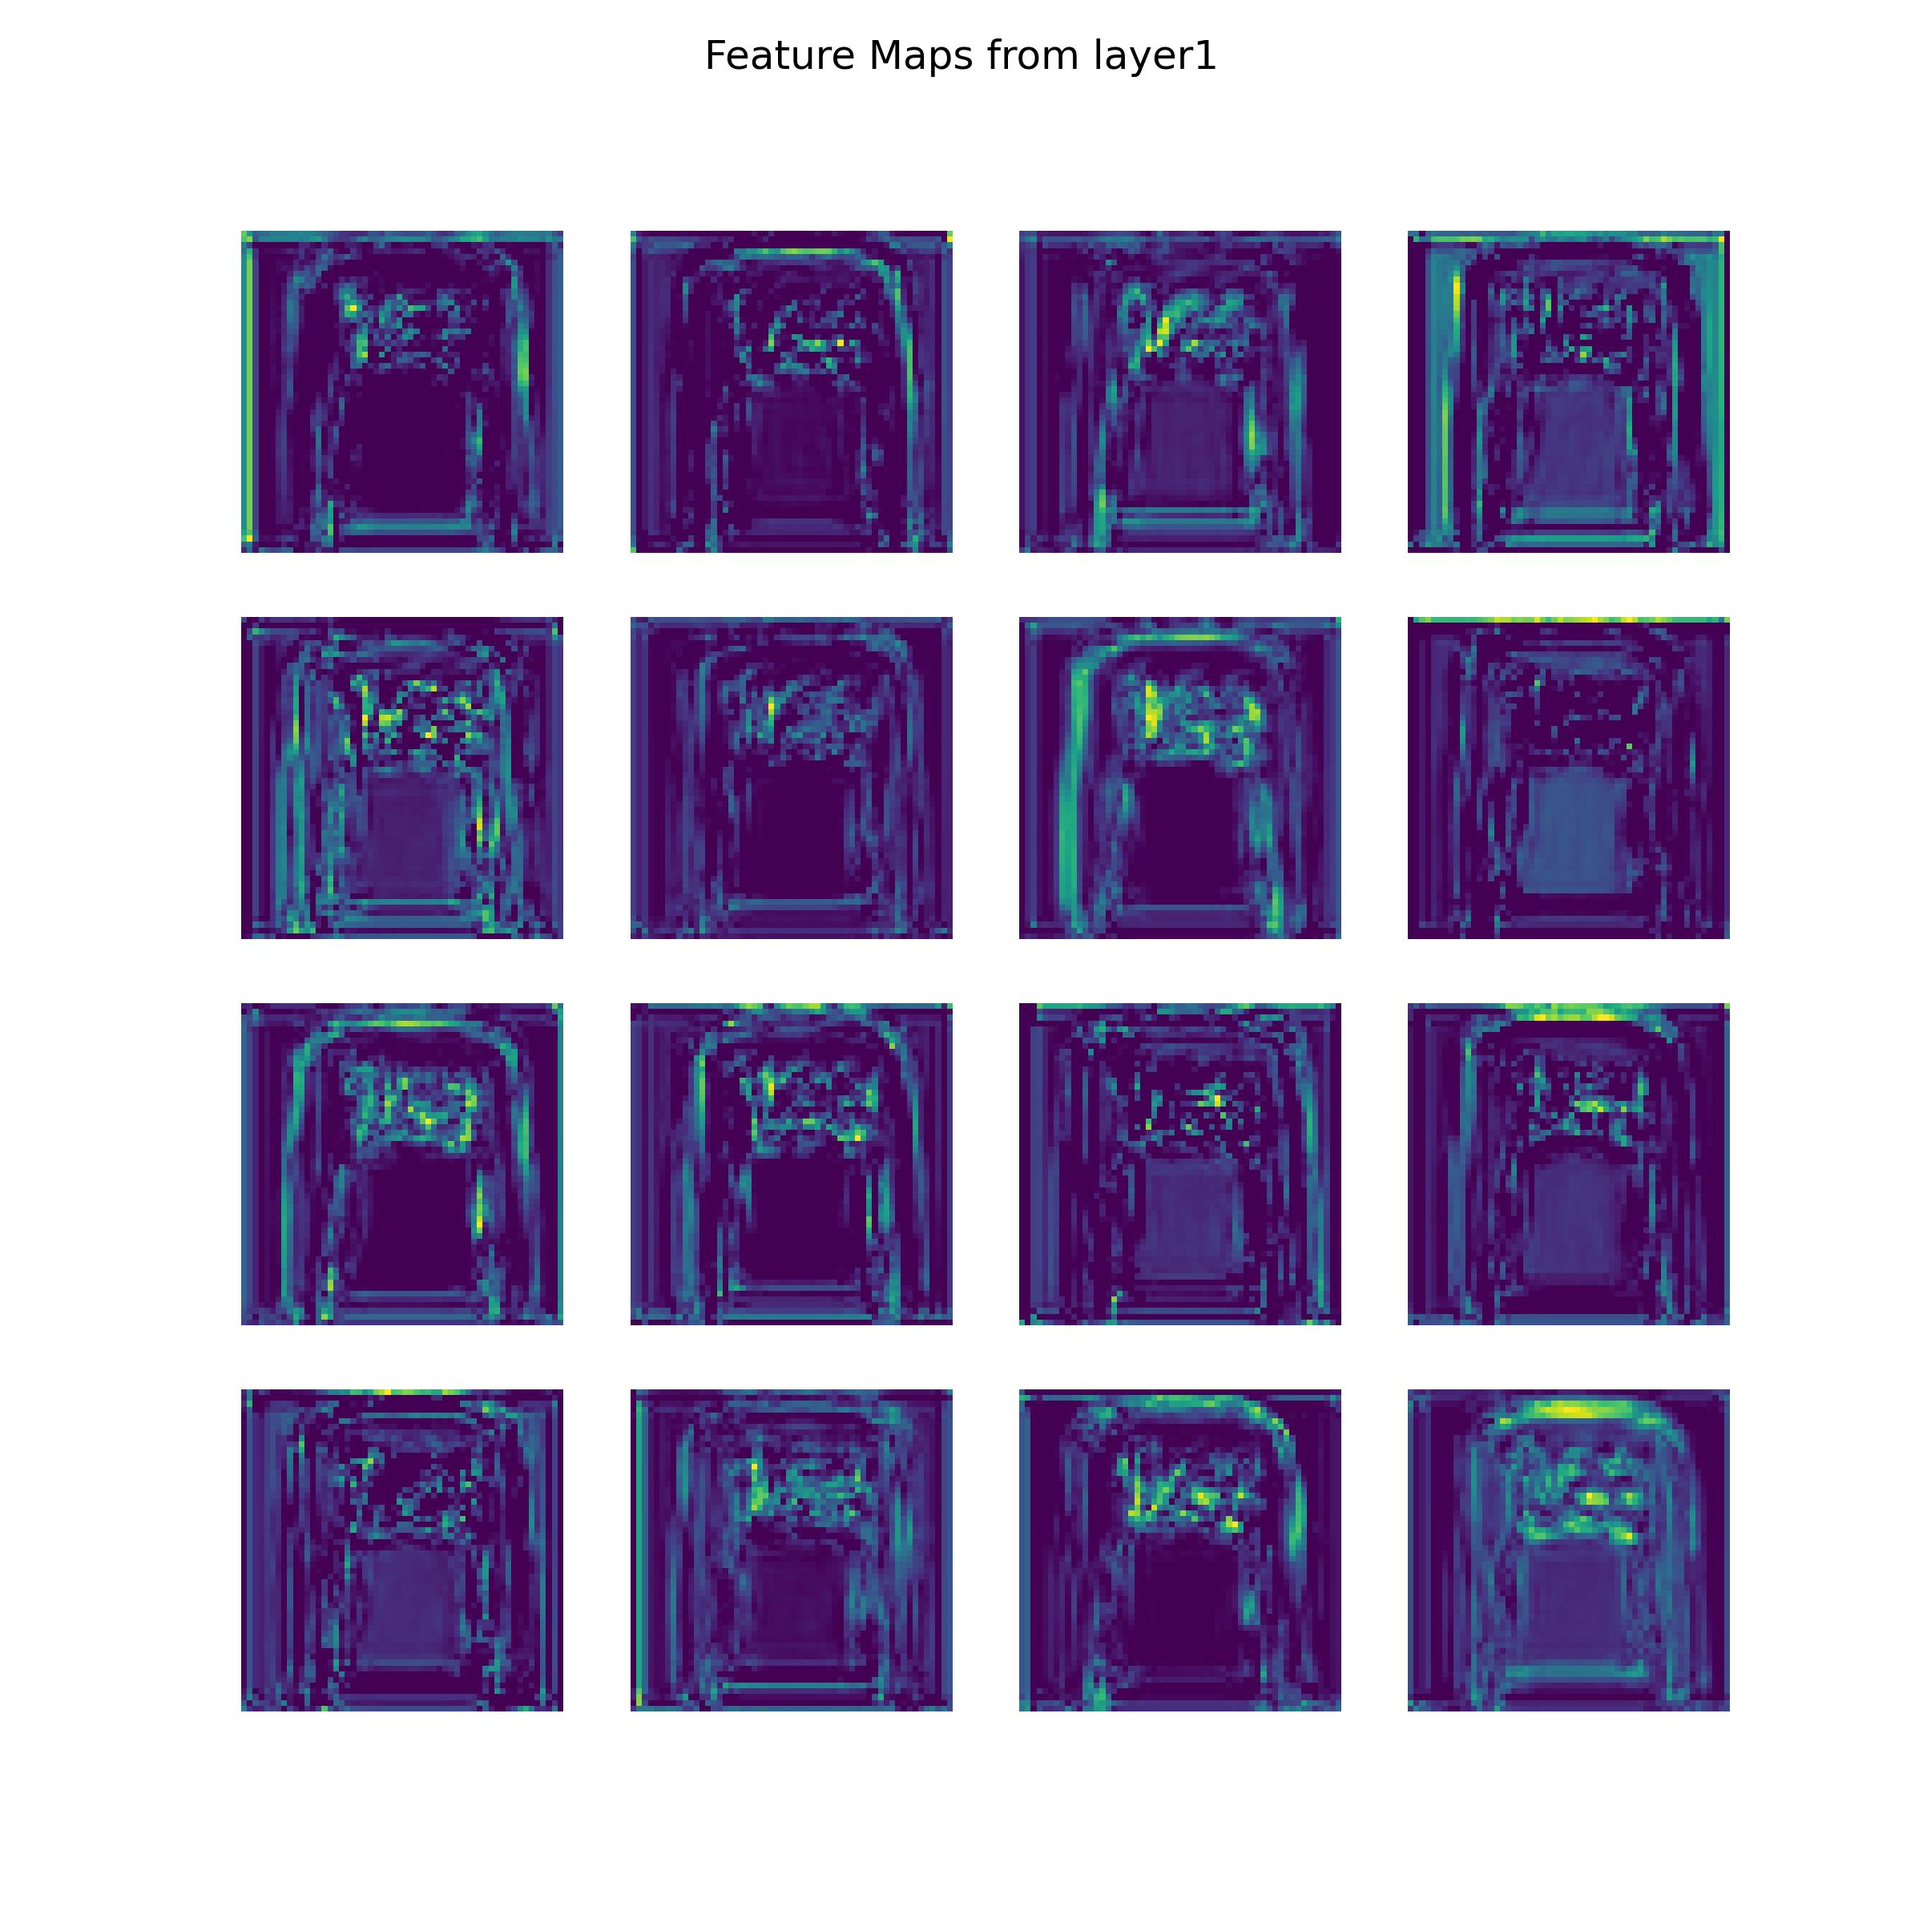
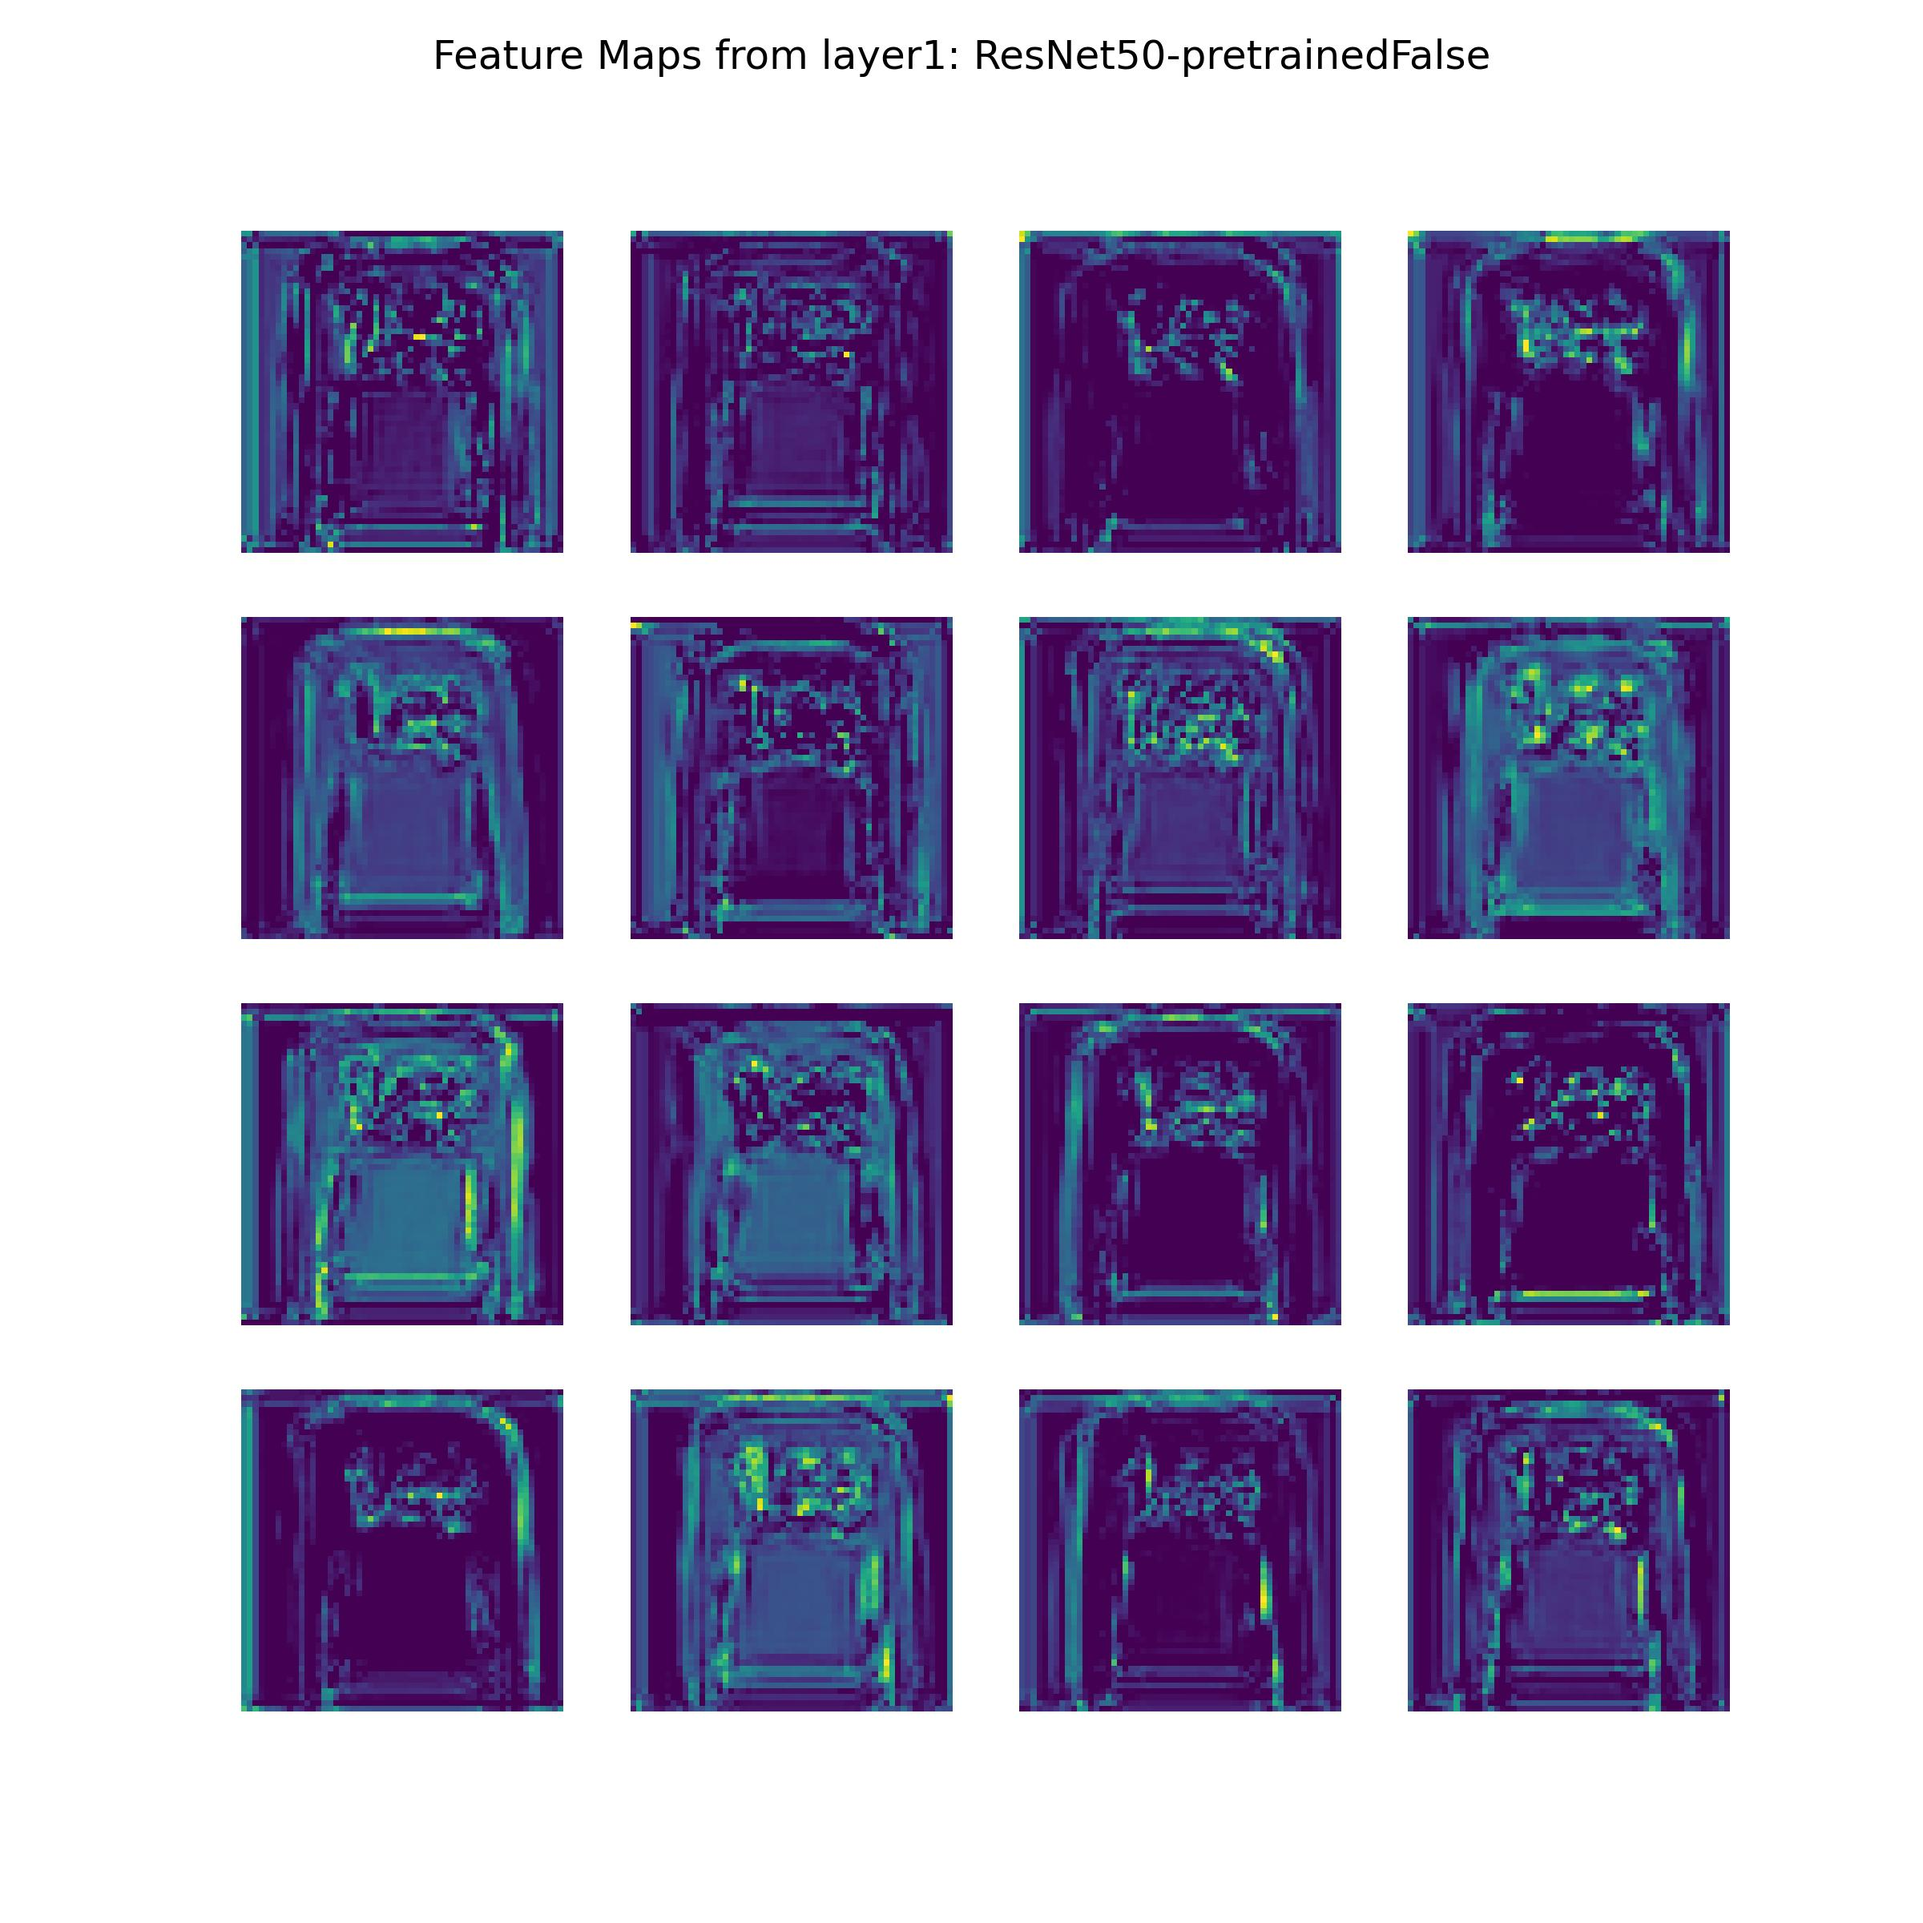
ran some experiments

diff --git a/src/pretrained_models.py b/src/pretrained_models.py
@@ -58,7 +58,7 @@ def train_model(model, train_loader, criterion, hyperparameters):
     
     utils.plot_loss_accuracy_curves(
         losses, accuracies, 
-        saveTag=f"{hyperparameters['model_name']}-pretrained-{hyperparameters['pretrained_model']})", 
+        saveTag=f"train_{hyperparameters['model_name']}_pretrained{hyperparameters['pretrained_model']}", 
         figSaveDir=f"../figs/pretrained_experiments/"
         )
 
@@ -75,18 +75,23 @@ def test_model(model, test_loader):
             correct += (predicted == labels).sum().item()
 
     logger.info(f"Test Accuracy: {100 * correct / total:.2f}%")
-
+    # add cm
+    
 def run_pretrained_model_experiment(train_loader, test_loader, hyperparameters):
     if hyperparameters['model_name'] == 'ResNet50':
-        model = resnet50(pretrained=hyperparameters['pretrained_model'])
+        if hyperparameters['pretrained_model'] is True:
+            model = resnet50(weights='DEFAULT')
+        else:   
+            model = resnet50(weights=None)
     
-    if hyperparameters['pretrained_model']:
-        # Freeze all layers except the final classifier
-        for param in model.parameters():
-            param.requires_grad = False  # Freeze convolutional layers
-
     # Modify the final fully connected layer for 10 classes
     model.fc = nn.Linear(model.fc.in_features, 10)  
+
+    # Freeze all layers except the final classifier
+    for param in model.parameters():
+        param.requires_grad = False  # Freeze convolutional layers
+    for param in model.fc.parameters():
+        param.requires_grad = True  # Unfreeze final layer
 
     model.to(device)
     criterion = nn.CrossEntropyLoss()
@@ -141,7 +146,7 @@ for model in lst_of_models:
     for flag in pretrained:
         logger.info("Starting new experiment!")   
         hyperparameters = {
-            'model_name':model,
+            'model_name':str(model),
             'pretrained_model':flag,
             'batchSize':64,
             'n_epochs':1,

diff --git a/src/utils.py b/src/utils.py
@@ -208,7 +208,7 @@ def plot_confusion_matrix(model, device, test_loader, class_names, figSaveTag, f
     sns.heatmap(cm, annot=True, fmt="d", cmap="Blues", xticklabels=class_names, yticklabels=class_names)
     plt.xlabel("Predicted")
     plt.ylabel("Actual")
-    plt.title("Confusion Matrix")
+    plt.title(f"Confusion Matrix: {figSaveTag}")
     plt.savefig(f"{figSaveDir}/cm_{figSaveTag}.jpg",dpi=300)
     plt.show()
 
@@ -236,6 +236,6 @@ def visualize_feature_maps(model, device, image, figSaveTag, figSaveDir, layer_n
         if i >= activation.shape[1]: break  # Stop if fewer channels
         ax.imshow(activation[0, i].cpu().numpy(), cmap="viridis")
         ax.axis("off")
-    plt.suptitle(f"Feature Maps from {layer_name}")
+    plt.suptitle(f"Feature Maps from {layer_name}: {figSaveTag}")
     plt.savefig(f"{figSaveDir}/fm_{layer_name}_{figSaveTag}.jpg",dpi=300)
     plt.show()
